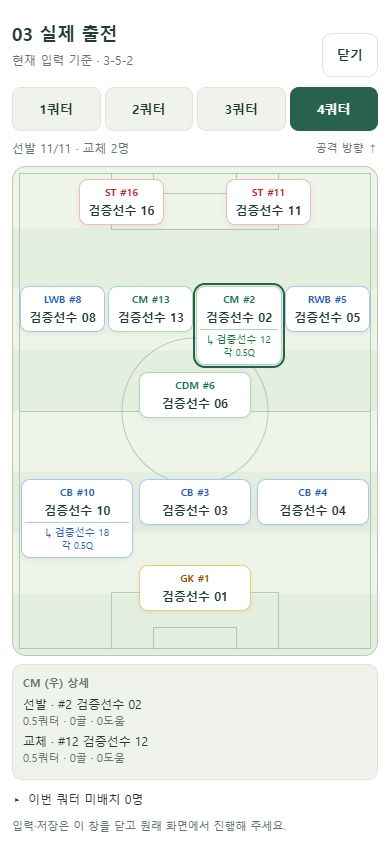
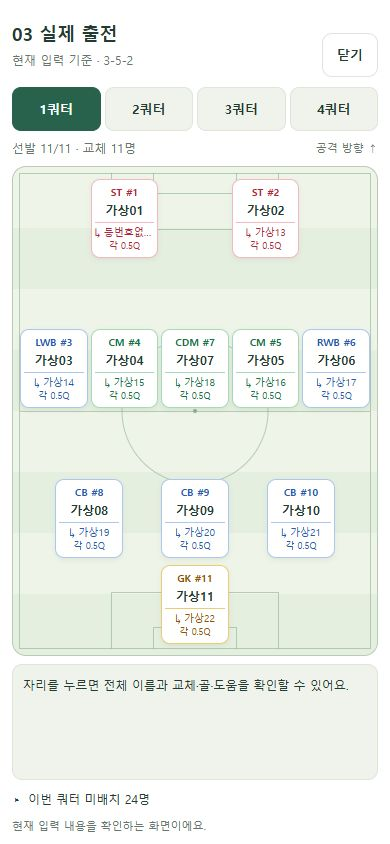
docs: explain direct squad editing and responsive 352 [skip ci]

diff --git a/docs/mobile-squad-overview.md b/docs/mobile-squad-overview.md
@@ -4,44 +4,53 @@
 
 ## 목적과 화면 흐름
 
-02 계획·03 실제 출전의 입력 화면에는 설명, 선수 선택, 엑셀 도구, 교체·득점 입력이 함께 있어 휴대폰에서 11명 전체를 보기 어렵다. 기존 입력 화면을 유지하면서 **스쿼드 한눈에 보기** 버튼으로 전체화면 조회를 연다.
+02 계획·03 실제 출전의 입력 화면에는 설명, 선수 선택, 엑셀 도구, 교체·득점 입력이 함께 있어 휴대폰에서 11명 전체를 보기 어렵다. **스쿼드 한눈에 보기** 버튼으로 전체화면 작전판을 열고 자리를 눌러 수정한다. 기존 단계별 저장 흐름은 유지한다.
 
 1. 02 또는 03의 제목 바로 아래에서 **스쿼드 한눈에 보기**를 누른다.
 2. 상단에서 1~4쿼터를 고른다. 자체전은 A/B팀도 선택하며 팀별 포메이션을 따른다.
 3. 작전판에는 포지션·등번호·이름을 표시한다. 교체가 있는 자리만 교체 이름과 각 0.5Q를 작게 표시한다.
-4. 자리를 누르면 아래 상세 영역에서 전체 이름, 선발·교체의 출전 쿼터를 확인한다. 03에서는 골·도움도 보인다.
+4. 감독·코치는 자리를 누르면 작은 편집창을 연다. 02는 선발·교체 배치와 같은 팀의 자리 이동/교환, 03은 선발·교체 선수와 각각의 골·도움을 수정한다. 조회 회원은 아래 상세 영역에서 전체 이름·교체·기록만 확인한다.
 5. 미배치 인원은 아래에서 펼쳐 본다. 자체전에서는 다른 팀에 배치된 선수를 미배치로 세지 않는다.
-6. 닫기 또는 ESC로 원래 화면에 돌아가 입력·저장한다. 전체보기의 쿼터·팀 변경은 원래 편집 위치와 초안을 바꾸지 않는다.
+6. 수정은 기존 초안에 즉시 반영된다. 편집창의 **입력 완료 · 작전판으로** 또는 닫기·ESC는 초안을 유지하며 작전판으로 돌아간다. 취소나 DB 저장을 뜻하지 않는다.
+7. 전체보기를 닫고 기존 **계획 저장 · 실제 기록으로** 또는 **출전 기록 저장 · 집계 확인**을 누르면 DB에 저장한다. 전체보기의 쿼터·팀 탐색은 원래 편집 위치를 바꾸지 않는다.
 
 ```mermaid
 flowchart LR
   A[02 계획 / 03 실제 출전] --> B[스쿼드 한눈에 보기]
   B --> C[쿼터·팀 선택 / 11명 전체 배치]
-  C --> D[자리 선택 / 교체·상세 기록]
-  D --> E[닫기 / 기존 입력 화면 복귀]
+  C --> D[자리 선택 / 배치·교체·골·도움 편집]
+  D --> G[현재 초안 반영 / 작전판 복귀]
+  G --> E[전체보기 닫기 / 기존 화면 복귀]
   E --> F[기존 단계별 저장]
 ```
 
 ![가상 명단으로 확인한 모바일 스쿼드 전체보기](diagrams/mobile-squad-overview.png)
 
-위 열람본은 실제 앱의 가상 검증 화면이다. 로컬 화면 소스는 `frontend/src/features/matches/SquadOverview.tsx`, `squad-overview.css`다. 기존 [포메이션 그림](diagrams/formation-guide.svg)과 [그림 생성 소스](../scripts/Generate-FormationGuide.mjs)에도 전체보기 흐름을 반영했다. 앱 소스는 이번 단계에서 로컬에만 두며 문서·그림 공개와 운영 배포를 구분한다.
+위 열람본은 모든 자리에 교체가 있는 가상 조회 화면이다. 다음은 별도 가상 DB에 연결한 운영진의 편집창이다.
+
+![전체보기에서 선발·교체와 골·도움 수정](diagrams/mobile-squad-editor.png)
+
+로컬 화면 소스는 `frontend/src/features/matches/SquadOverview.tsx`, `OverviewPositionEditor.tsx`, `squad-overview.css`이며 실제 출전 변경 검증은 `appearanceEdit.ts`를 사용한다. 기존 [포메이션 그림](diagrams/formation-guide.svg)과 [그림 생성 소스](../scripts/Generate-FormationGuide.mjs)에도 흐름을 반영했다. 앱 소스는 이번 단계에서 로컬에만 두며 문서·그림 공개와 운영 배포를 구분한다.
 
 ## 표시·접근성 기준
 
 - **현재 입력 기준**: 아직 저장하지 않은 내용도 표시한다. 저장 완료 상태로 오해할 문구를 쓰지 않는다.
 - 02는 계획, 03은 실제 출전 자료를 별도로 사용한다. 기존 출전 쿼터 계산 함수를 재사용한다.
+- 3-5-2는 화면 폭 370px 이상에서 중원 5명을 한 줄로 표시한다. 369px 이하에서는 수비부터 3-2-3-2 형태로 나누며 CDM은 뒤쪽 중앙에 둔다. 이는 전체보기의 화면 좌표만 바꾸며 DB 포지션·자동 편성·실제 출전 기록은 바꾸지 않는다.
+- 02는 참석 예정 선수, 03의 새 배치는 실제 참석·지각 선수만 고른다. 자체전의 같은 쿼터에 다른 팀에 배치된 선수는 중복 배치할 수 없다.
+- 교체가 있는 선발은 교체부터 해제해야 한다. 03의 골·도움 기록이 있는 선수는 기록을 먼저 0으로 정정해야 바꾸거나 해제할 수 있다. 같은 쿼터 중복 출전과 0~99 정수 범위 밖 기록은 거절하고 초안을 보존한다.
 - 작은 카드의 좌·우·중앙 구분은 실제 배치 위치로 보여 주고, 상세 영역과 접근성 이름에는 전체 포지션 이름을 표시한다.
 - 카드에서 긴 이름은 말줄임 처리하며 누르면 전체 이름을 읽을 수 있다. 등번호가 없는 선수에게 임의 번호를 만들지 않는다.
-- 쿼터 선택·닫기·선수 카드의 터치 높이는 최소 44px이다. 모달은 기본 dialog의 포커스 제한을 사용하며 닫기·ESC 후 열기 버튼으로 포커스를 돌려준다.
+- 쿼터 선택·닫기·선수 카드의 터치 높이는 최소 44px이다. 편집창의 입력 글꼴은 16px이다. 기본 dialog의 포커스 제한을 사용하며 편집창의 닫기·ESC는 누른 카드로, 전체보기 닫기는 열기 버튼으로 포커스를 돌려준다.
 - 390×844 화면에서는 작전판 전체를 함께 본다. 320×568·가로 화면 등 높이가 부족한 경우 내부 세로 스크롤을 허용하며 카드를 억지로 줄이거나 자르지 않는다.
-- 입력 도구·저장 버튼·API·DB 구조는 변경하지 않는다. 전체보기 자체에는 저장 요청이 없다.
+- 전체보기 자체에는 저장 요청이 없다. 기존 변경 상태·단계별 저장·서버 권한·충돌 처리·API·DB 구조를 재사용한다. 저장 중이거나 편집이 차단된 상태에서는 수정할 수 없다.
 
 ## 검증
 
-- TypeScript/Vite 빌드와 기존 프론트 테스트 64개 통과.
-- 320px·390px에서 포메이션 6종 모두 11자리 확인. 모든 자리에 교체가 있는 가상 자료에서도 카드 겹침, 작전판 밖 카드, 가로 넘침 없음.
-- A팀 3-5-2/B팀 3-4-3 독립 조회, 빈 명단, 긴 이름·등번호 없는 용병, 0.5쿼터, 계획/실제 득점 구분, 닫기·ESC의 포커스 복귀 확인.
-- 전체보기 전후 원래 편집 쿼터·저장 상태가 유지되는지 별도 로컬 앱에서 확인.
-- 실제 아이폰 Safari는 미검증. 백엔드·MySQL 통합 테스트는 저장 기능 변경이 없어 이번 작업에서 재실행하지 않았다. 실제 회원·경기 자료와 운영 서버는 변경하지 않았다.
+- TypeScript/Vite 빌드, 프론트 테스트 **76/76** 통과. 추가 12개는 실제 출전 변경의 중복·교체·득점 보호·불변성·타 쿼터/팀 보존 검증이다.
+- 초기 조회판에서 6종 × 320/390px, A/B 독립 조회, 빈 명단·긴 이름·등번호 없는 용병을 확인했다. 이번에는 3-5-2의 390px 중원 5명 한 줄과 320px 분리 배치를 모든 자리에 교체가 있는 가상 자료로 확인했다. 카드 겹침·작전판 이탈·가로 넘침 없음.
+- 별도 로컬 가상 DB에서 02 자리 교환·교체 추가와 단계 저장, 03 골·도움·교체 추가와 단계 저장, 새로고침 후 저장된 득점·도움 조회를 확인했다. 계획 수정으로 실제 출전이 바뀌지 않고, 전체보기 쿼터 이동으로 원래 편집 쿼터가 바뀌지 않는다.
+- 득점·도움이 있는 선수 해제, 교체가 있는 선발 해제를 거절하고 기존 초안을 보존한다. 320px 편집창의 가로 넘침 없음, 닫기·중첩 ESC의 포커스 복귀, 조회 전용 모드에서 편집창 미노출을 확인했다.
+- 실제 아이폰 Safari와 백엔드 전체·Docker/MySQL 통합 테스트 묶음은 이번 프론트 변경에서 재실행하지 않았다. 가상 DB 브라우저 저장 검증과 구분한다. 실제 회원·경기 자료와 운영 서버는 변경하지 않았다.
 
 선수 시즌 기록 화면의 필터 접기·요약 행은 후속 검토 사항이며 이번 전체보기 작업에 포함하지 않았다.

diff --git a/docs/system-overview.md b/docs/system-overview.md
@@ -8,7 +8,7 @@
 
 로컬 확장판에는 선수 시즌 기록과 포메이션 여섯 종류(4백 4종·3백 2종)를 추가했다. 운영 구성은 그대로이며, [별도 포메이션 그림과 기능 명세](player-stats-and-formations.md)에 운영 미반영 상태를 표시한다.
 
-모바일 02·03의 [스쿼드 한눈에 보기와 화면 흐름](mobile-squad-overview.md)도 로컬에 추가했다. 전체화면 조회는 기존 기록의 저장·집계·배포 구조를 바꾸지 않는다.
+모바일 02·03의 [스쿼드 한눈에 보기와 직접 편집 흐름](mobile-squad-overview.md)도 로컬에 추가했다. 전체화면 작전판에서 배치·교체·골·도움을 기존 초안에 반영하고 단계별 저장을 사용하며, 저장 API·집계·배포 구조는 유지한다.
 
 ## 그림 미리보기
 

diff --git a/docs/player-stats-and-formations.md b/docs/player-stats-and-formations.md
@@ -49,7 +49,7 @@
 
 ## 화면 흐름과 보호 규칙
 
-모바일에서는 02·03 제목 아래 **스쿼드 한눈에 보기**를 눌러 11명 전체를 조회한다. 쿼터·A/B 선택과 교체 상세를 제공하며 입력·저장은 기존 화면에서 진행한다. [화면과 검증 기준](mobile-squad-overview.md).
+모바일에서는 02·03 제목 아래 **스쿼드 한눈에 보기**를 눌러 11명 전체를 본다. 감독·코치는 자리를 눌러 02의 배치·교체와 03의 선수·골·도움을 바로 수정하며 기존 단계별 버튼으로 저장한다. 3-5-2는 중원 5명 한 줄, 매우 좁은 화면은 3-2-3-2 형태로 표시한다. [화면과 검증 기준](mobile-squad-overview.md).
 
 ```mermaid
 flowchart TD
